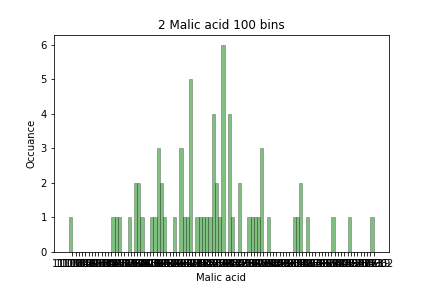
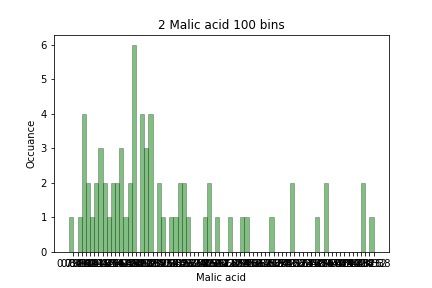
Fix Wine box and hist

Changed region(s): [[0.1204, 0.1562, 0.9028, 0.9375]]

diff --git a/assn1/Q1/Histograms/Wine_Histograms/Wine_Histograms.py b/assn1/Q1/Histograms/Wine_Histograms/Wine_Histograms.py
@@ -77,8 +77,8 @@ def Histogram(data,numbins,Title,Ylabel,Xlabel):
  plt.title(T)
  filename=T
  
- #plt.savefig(filename)
- #plt.show()
+ plt.savefig(filename)
+ plt.show()
  plt.close()
  return
 
@@ -122,6 +122,8 @@ def GenerateHistograms(data,AllbinSizes,headers,classes,classranges):
    df=data.iloc[classranges[everyclass]:classranges[everyclass+1],Attribute].values
    #print('data:',df)
    for count in range(len(AllbinSizes)):
+    print(cur_class)
+    print(df)
     Histogram(df,AllbinSizes[count],cur_class,labelY,headers[Attribute])
  return
 
@@ -131,7 +133,7 @@ def GenerateHistograms(data,AllbinSizes,headers,classes,classranges):
 #import the data set
 data=pd.read_csv('Wine.csv')
 headers=list(data) # get every column(attribute) title
-headers.pop(0) #remove the class column
+headers.pop() #remove the class column
 classes=[]
 classranges=[]
 AllbinSizes=[5,10,50,100]

diff --git a/assn1/Q2/Distances/Wine Data Point x Data Point matrix/Wine Data Point x Data Point matrix.py b/assn1/Q2/Distances/Wine Data Point x Data Point matrix/Wine Data Point x Data Point matrix.py
@@ -41,11 +41,11 @@ def GenerateDataMatrix(data,p):
   #get the number of distinct classes
   #numRowranges=(len(classranges)-1)
  
- #for every class of flower
+
   
    #generate a matrix initialized to zero
   matrix = pd.DataFrame(np.zeros((numcol,numcol)))
-  for i in range (numcol):
+  for i in range (1,numcol):
     for j in range(i+1,numcol):
      x=data.iloc[i,0:3].values
      y=data.iloc[j,0:3].values
@@ -79,7 +79,7 @@ def minkowskiDist(x,y,p):
 #-----------  ----------
 # 
    #import the data set
-data=pd.read_csv('IrisDataSet.csv')
+data=pd.read_csv('Wine.csv')
 GenerateDataMatrix(data,1)
 GenerateDataMatrix(data,2)
 

diff --git a/assn1/Q1/Wine_BoxPlots/WineBoxPlots.py b/assn1/Q1/Wine_BoxPlots/WineBoxPlots.py
@@ -110,7 +110,7 @@ def Boxplots(data,Title,Ylabel,Xlabel):
 data=pd.read_csv('Wine.csv')
 
 headers=list(data) # get every column(attribute) title
-headers.pop(0) #remove the class column
+#headers.pop(0) #remove the class column
 classes=[]
 classranges=[]
 AllbinSizes=[5,10,50,100]
